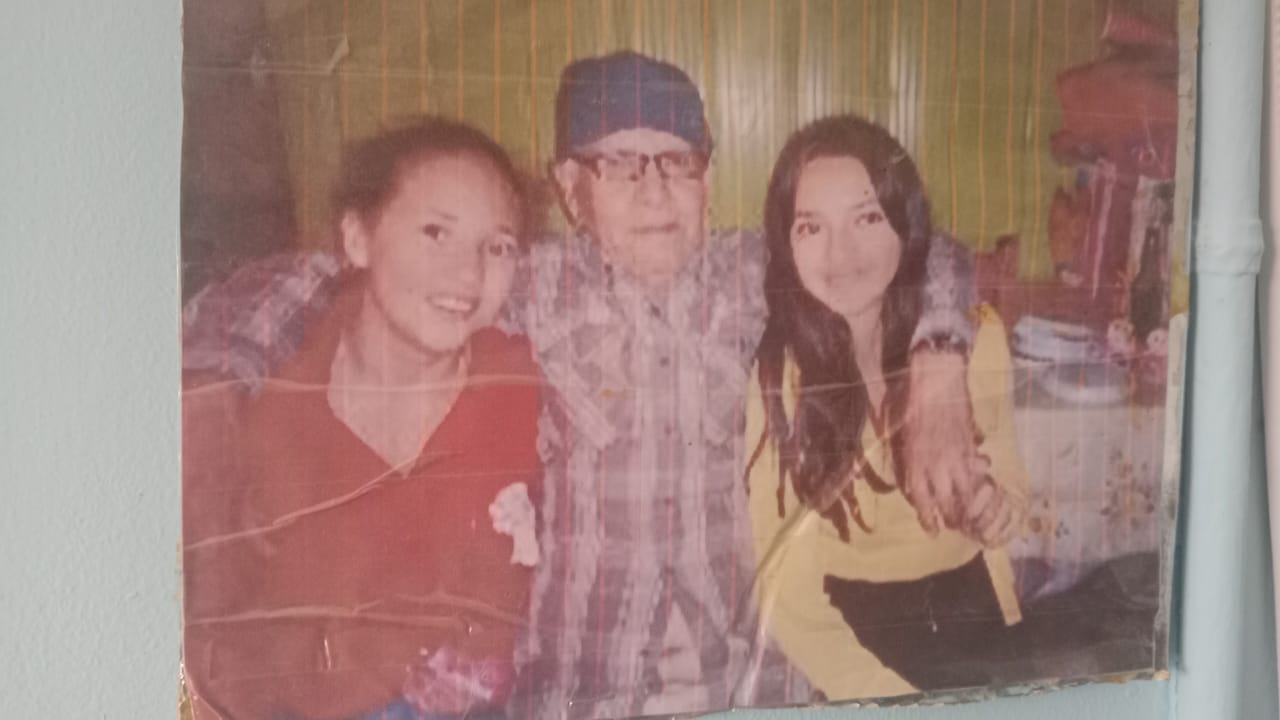
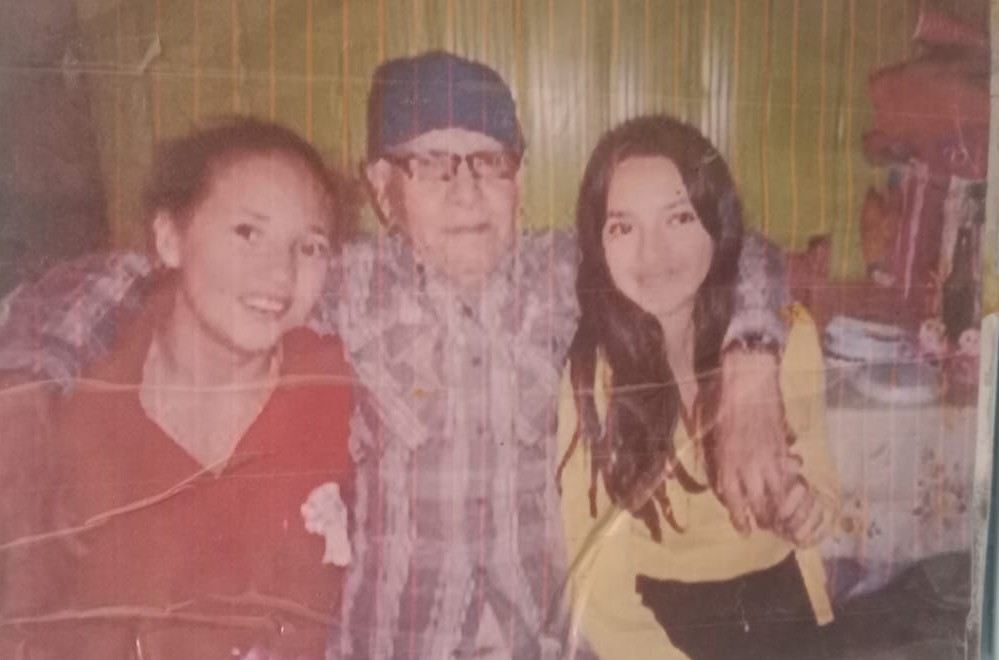
f

diff --git a/lib/gallery-data.ts b/lib/gallery-data.ts
@@ -273,7 +273,7 @@ export const albums: Album[] = [
         // Para agregar una descripción a otra foto, copia el formato de abajo.
         //
       0: "El comienzo de un viaje lleno de momentos inolvidables junto a la familia",
-      58:"Que tema más entretenido con mis hijos  nuestras viejas nos perdonarán que las engañamos",
+      57:"Que tema más entretenido con mis hijos  nuestras viejas nos perdonarán que las engañamos",
       118:"Papá Cuánta falta me haces Hoy vives en el cielo pero también en mi corazón te extraño mucho papá 💗Gracias por tus lindos consejos que me diste Gracias por el amor que me entregaste Gracias por ser mi amigo.Gracias por el tiempo que me dedicaste no te imaginas cuánto te extraño,de escuchar tu voz ver tu mirada sentir tu sonrisa no sabes cuánto te extraño de tenerte a mi lado , la única manera de verte es viendo tus fotos pero mis ojos se llenan de lágrimas pero se que tú quieres que siga adelante mi bello angel se que me das la fuerza para seguir adelante .Te quiero mucho te recordaré por siempre se que algún día nos volveremos a ver y estaremos juntos otra vez  te amo te quiero más allá de las estrellas  PAPÁ ♥",
       155: " Te amo hasta el infinito y más allá me haces mucha falta Papá gracias por tanto y por todo",
         // 1: "Aquí va tu descripción para la segunda foto",
